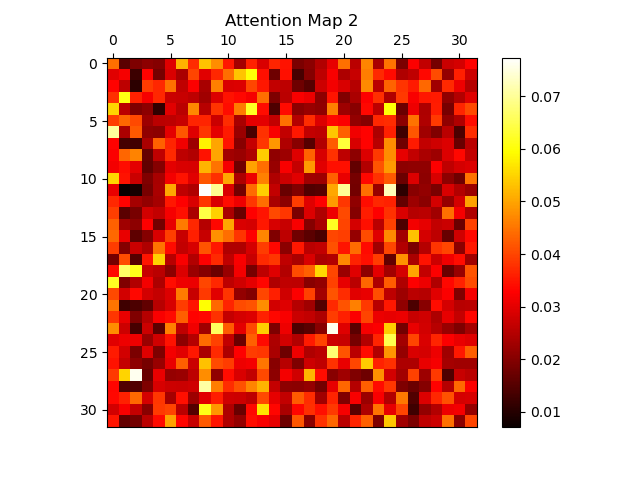
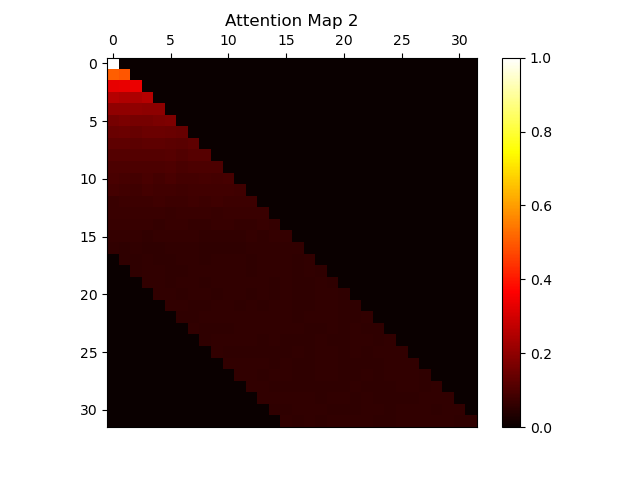
fix local window

diff --git a/CSE256_PA2_FA24/PA2_code/transformer.py b/CSE256_PA2_FA24/PA2_code/transformer.py
@@ -112,9 +112,9 @@ class Decoder(nn.Module):
 
 """ Part 3 starts here """
 class DecoderBlockPart3(nn.Module):
-    def __init__(self, n_embed, n_head):
+    def __init__(self, n_embed, n_head, part3="alibi"):
         super().__init__()
-        self.attn = MultiHeadLocalAttention(n_embed, n_head)
+        self.attn = MultiHeadAttentionALiBi(n_embed, n_head) if part3=="alibi" else MultiHeadLocalAttention(n_embed, n_head)
         self.ff = FeedForward(n_embed, 100, n_embed)
         self.ln1 = nn.LayerNorm(n_embed)
         self.ln2 = nn.LayerNorm(n_embed)
@@ -161,6 +161,53 @@ class DecoderPart3(nn.Module):
             mask = mask.to(x.device)
 
         out = self.token_embedding(x)
+
+        attn_maps = []
+        for layer in self.blocks:
+            out, attn_map = layer(out, mask=mask)
+            attn_maps.append(attn_map)
+
+        out = self.ln_f(out)
+        logits = self.lm_head(out)
+
+        return logits, attn_maps
+    
+
+class DecoderPart3Local(nn.Module):
+    def __init__(self, vocab_size, n_embed, n_head, n_layer, block_size):
+        super().__init__()
+        self.block_size = block_size
+        
+        self.token_embedding = WordEmbedding(vocab_size=vocab_size, d_model=n_embed)
+        self.pos_embedding = PositionalEmbedding(block_size, n_embed)
+        
+        self.blocks = nn.ModuleList([
+            DecoderBlockPart3(n_embed, n_head, "not alibi") for _ in range(n_layer)
+        ])
+        
+        self.ln_f = nn.LayerNorm(n_embed)
+        self.lm_head = nn.Linear(n_embed, vocab_size)
+        
+        # Initialize weights
+        self.apply(self._init_weights)
+    
+    def _init_weights(self, module):
+        if isinstance(module, (nn.Linear, nn.Embedding)):
+            module.weight.data.normal_(mean=0.0, std=0.02)
+            if isinstance(module, nn.Linear) and module.bias is not None:
+                module.bias.data.zero_()
+        elif isinstance(module, nn.LayerNorm):
+            module.bias.data.zero_()
+            module.weight.data.fill_(1.0)
+
+    def forward(self, x, mask=None):
+        if mask is None:
+            seq_length = x.size(1)
+            mask = ~torch.triu(torch.ones(seq_length, seq_length), diagonal=1).bool()
+            mask = mask.to(x.device)
+
+        out = self.token_embedding(x)
+        out = self.pos_embedding(out)
 
         attn_maps = []
         for layer in self.blocks:

diff --git a/CSE256_PA2_FA24/PA2_code/main.py b/CSE256_PA2_FA24/PA2_code/main.py
@@ -9,7 +9,7 @@ import argparse
 
 from tokenizer import SimpleTokenizer
 from dataset import SpeechesClassificationDataset, LanguageModelingDataset
-from transformer import Encoder, Decoder, DecoderPart3
+from transformer import Encoder, Decoder, DecoderPart3, DecoderPart3Local
 from classifier import Classifier, SpeechClassifier, experiment_classifier
 from utilities import Utilities
 from decoder_lm import LanguageModel, experiment_LM, compute_perplexity
@@ -109,8 +109,8 @@ def main():
         test_CLS_loader = DataLoader(test_CLS_dataset, batch_size=batch_size,collate_fn=collate_batch,shuffle=False)
 
         # Create a classifier
-        vocab_size = len(train_CLS_dataset.tokenizer.itos)
-        encoder = Encoder(seq_lenth=block_size, vocab_size=vocab_size, d_model=n_embd, d_ff=4*n_embd, num_layers=n_layer, num_heads=n_head)
+        vocab_size = tokenizer.vocab_size
+        encoder = Encoder(seq_lenth=block_size, vocab_size=vocab_size, d_model=n_embd, d_ff=n_hidden, num_layers=n_layer, num_heads=n_head)
         classifier = Classifier(d_model=n_embd, d_hidden=n_hidden, d_out=n_output)
         speech_classifier = SpeechClassifier(encoder, classifier)
 
@@ -197,7 +197,8 @@ def main():
 
         # Create model
         vocab_size = len(train_LM_dataset.tokenizer.itos)
-        decoder = DecoderPart3(vocab_size=vocab_size, n_embed=n_embd, n_head=n_head, n_layer=n_layer, block_size=block_size)
+        # decoder = DecoderPart3(vocab_size=vocab_size, n_embed=n_embd, n_head=n_head, n_layer=n_layer, block_size=block_size)
+        decoder = DecoderPart3Local(vocab_size=vocab_size, n_embed=n_embd, n_head=n_head, n_layer=n_layer, block_size=block_size)
         decoder_LM = LanguageModel(decoder)
         
         # Sanity check
